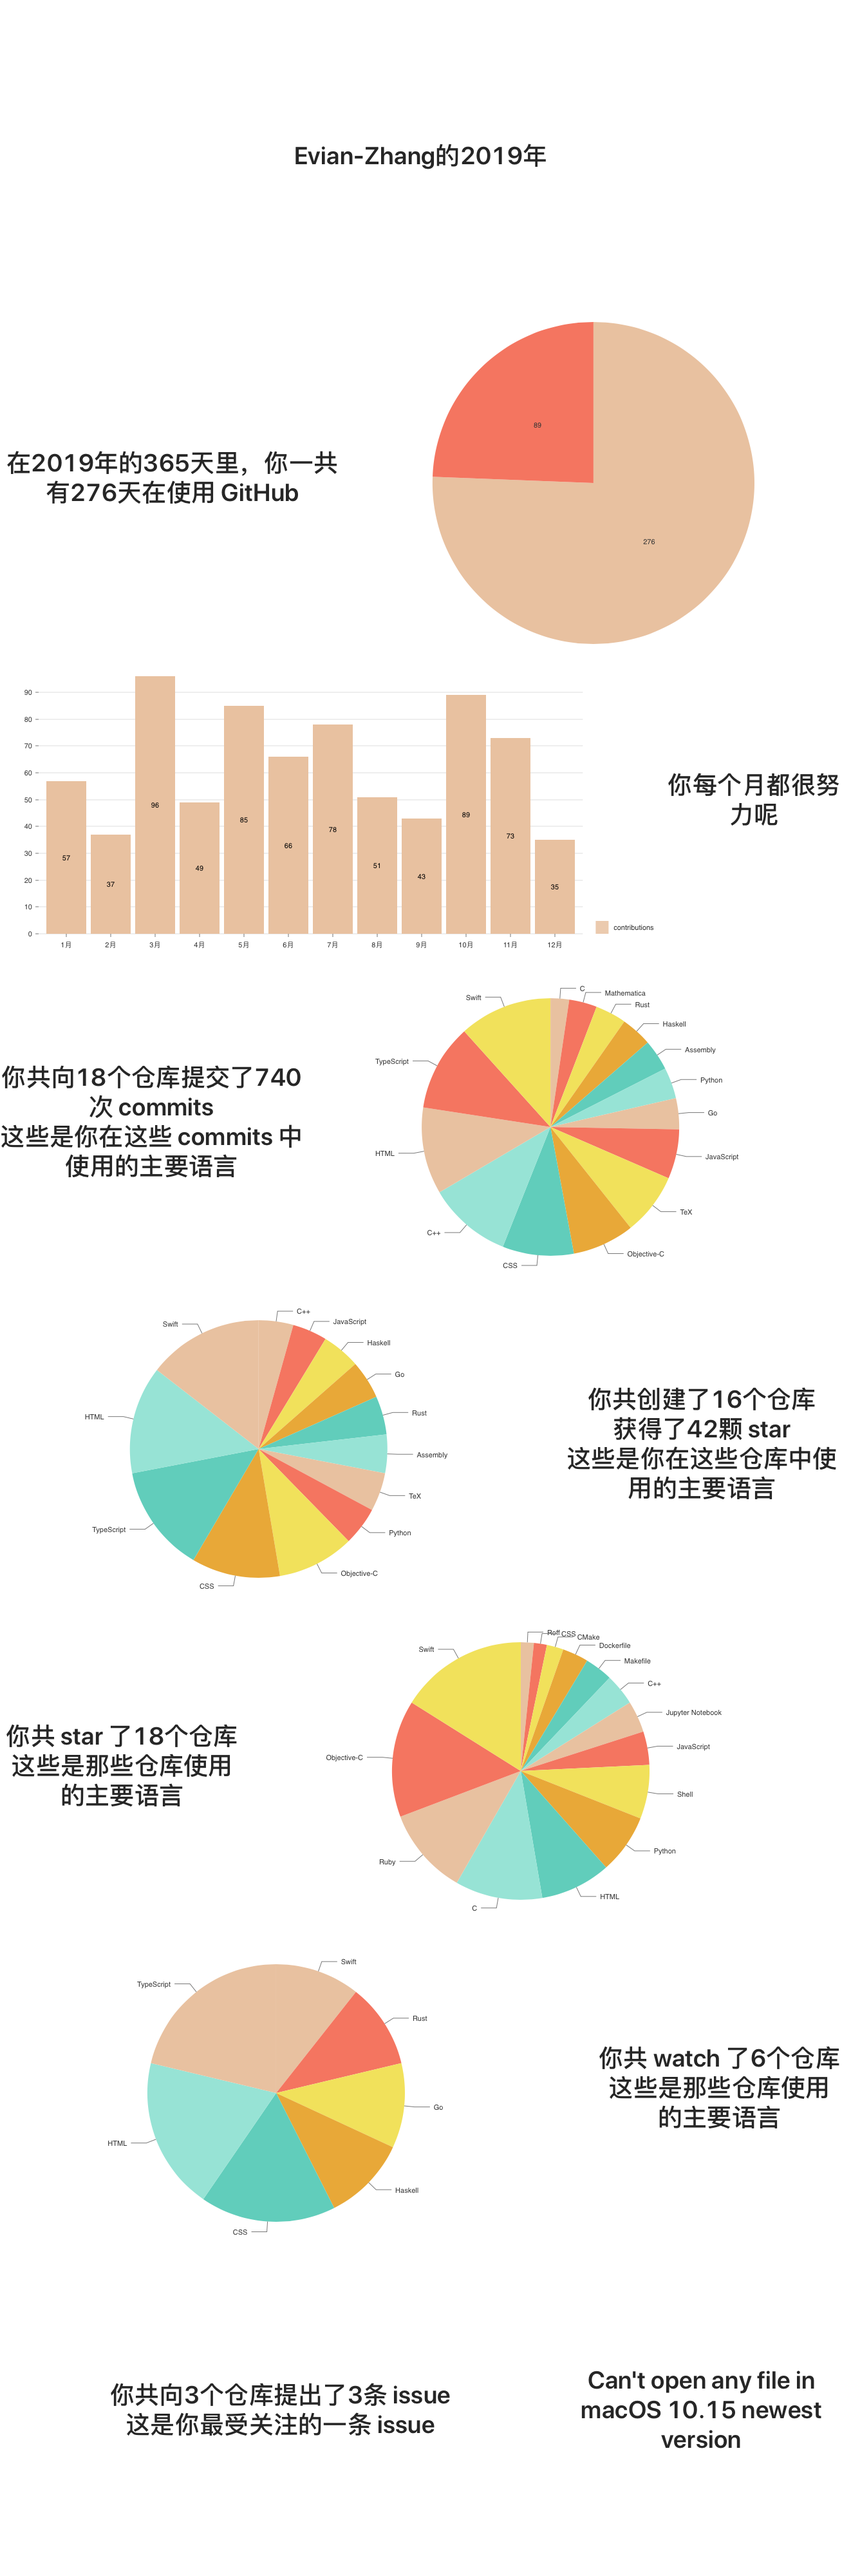
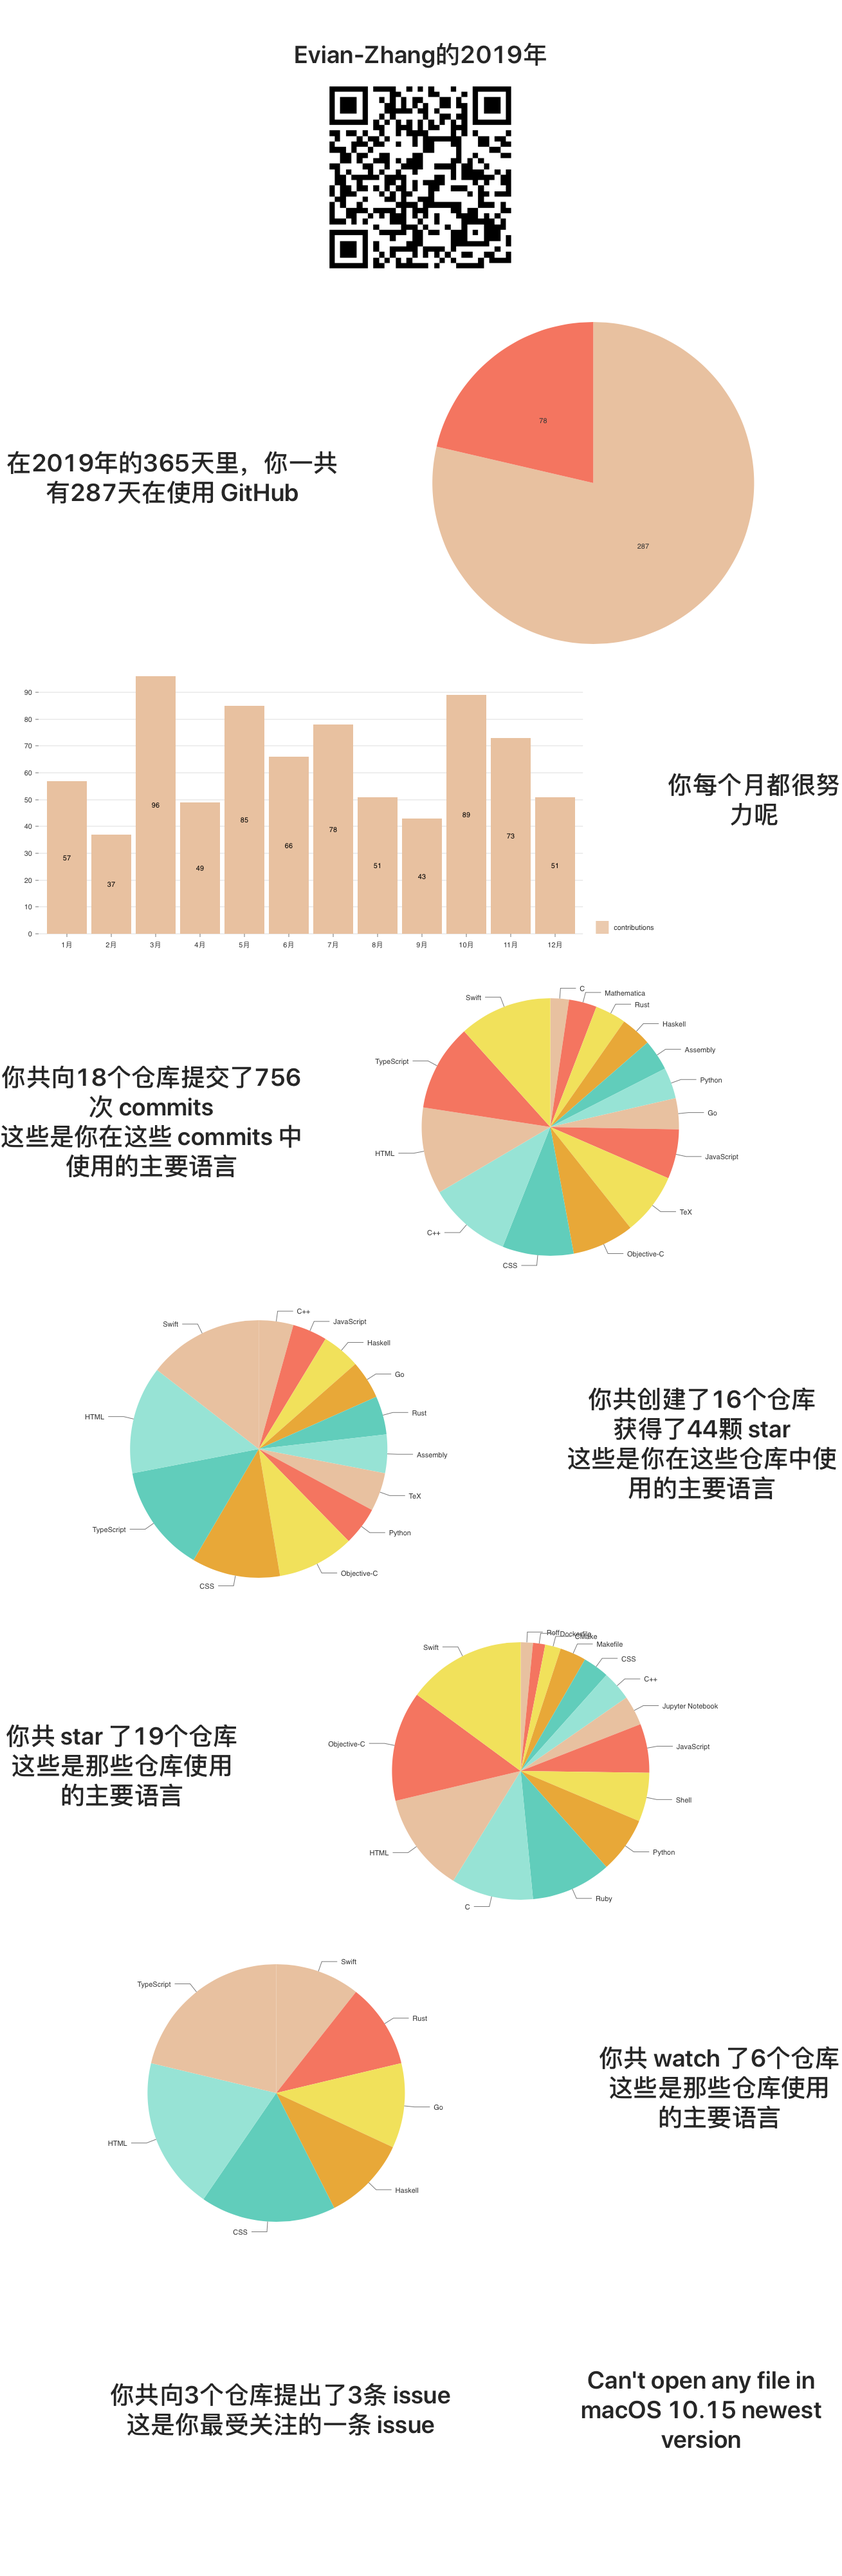
add QR code (#2)

diff --git a/src/data-page.tsx b/src/data-page.tsx
@@ -534,9 +534,14 @@ class DataPage extends Component<DataPageProps, DataPageState> {
                                 justifyContent: 'center',
                                 alignItems: 'center',
                                 height: frameHeight }}>
+                                <Typography>
                                 <Title>
                                     {this.dataProcessor.username}的2019年
                                 </Title>
+                                    <Paragraph>
+                                        <img src={require("./QRcode.png")} alt="QR code" style={{ width: "300px" }}/>
+                                    </Paragraph>
+                                </Typography>
                             </div>
                         </Col>
                     </Row>,
